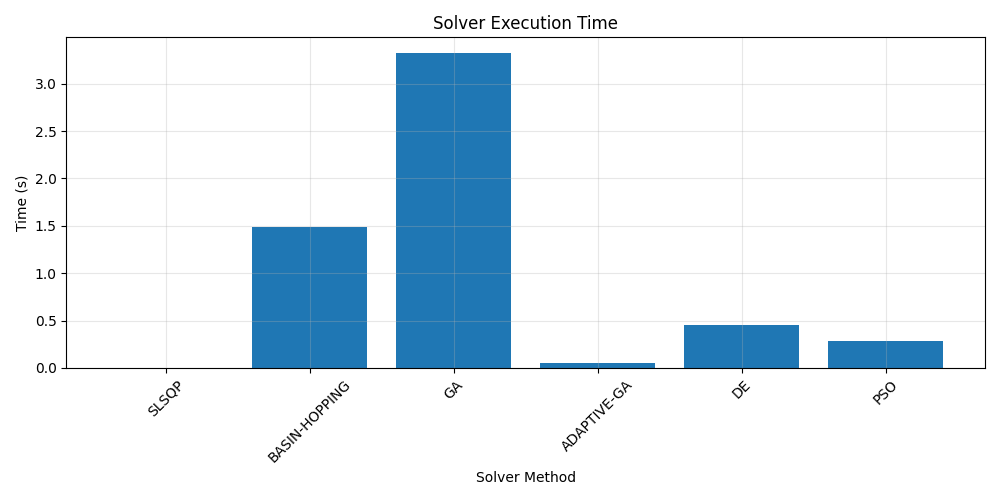
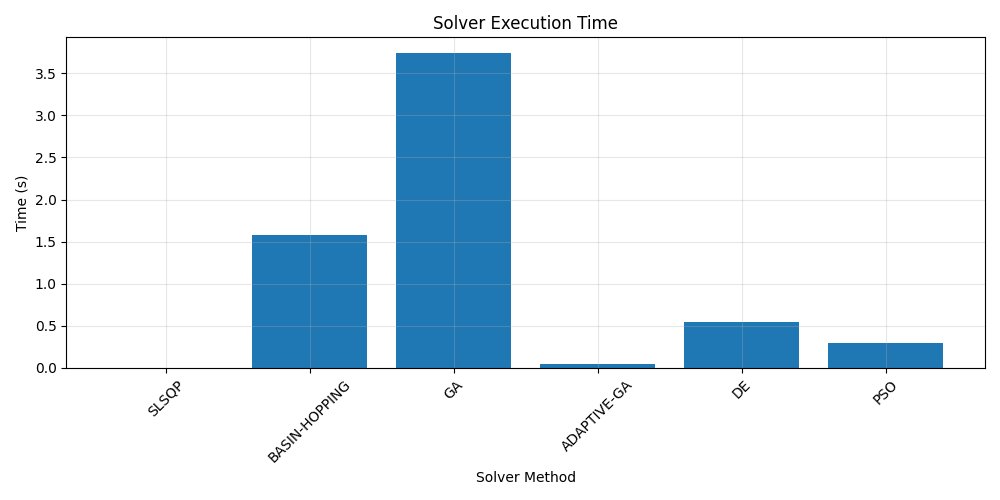
all tests working

diff --git a/Stage_Opt/output/optimization_report.tex b/Stage_Opt/output/optimization_report.tex
@@ -83,11 +83,11 @@ The following optimization methods were evaluated:
 Method & {Payload Fraction} & {Error} & {Time (\si{\second})} \\
 \midrule
 SLSQP        & 0.0315 & 0.0000e+00 & 0.00 \\
-BASIN-HOPPING & 0.0315 & 0.0000e+00 & 1.48 \\
-GA           & 0.0315 & 0.0000e+00 & 3.32 \\
-ADAPTIVE-GA  & 0.0315 & 0.0000e+00 & 0.05 \\
-DE           & 0.0355 & 0.0000e+00 & 0.45 \\
-PSO          & 0.0355 & 0.0000e+00 & 0.28 \\
+BASIN-HOPPING & 0.0315 & 0.0000e+00 & 1.57 \\
+GA           & 0.0325 & 0.0000e+00 & 3.74 \\
+ADAPTIVE-GA  & 0.0315 & 0.0000e+00 & 0.04 \\
+DE           & 0.0355 & 0.0000e+00 & 0.55 \\
+PSO          & 0.0355 & 0.0000e+00 & 0.30 \\
 \bottomrule
 \end{tabular}
 \end{table}
@@ -117,8 +117,8 @@ Stage & {$\Delta V$ (\si{\meter\per\second})} & {Mass Ratio ($\lambda$)} & {Cont
 \toprule
 Stage & {$\Delta V$ (\si{\meter\per\second})} & {Mass Ratio ($\lambda$)} & {Contribution (\%)} \\
 \midrule
-1 & 4649.9 & 0.1460 & 50.0 \\
-2 & 4650.1 & 0.2161 & 50.0 \\
+1 & 4651.4 & 0.1459 & 50.0 \\
+2 & 4648.6 & 0.2162 & 50.0 \\
 \midrule
 \multicolumn{2}{l}{Total $\Delta V$:} & \multicolumn{2}{r}{\SI{9300.0}{\meter\per\second}} \\
 \multicolumn{2}{l}{Payload Fraction:} & \multicolumn{2}{r}{0.0315} \\
@@ -133,11 +133,11 @@ Stage & {$\Delta V$ (\si{\meter\per\second})} & {Mass Ratio ($\lambda$)} & {Cont
 \toprule
 Stage & {$\Delta V$ (\si{\meter\per\second})} & {Mass Ratio ($\lambda$)} & {Contribution (\%)} \\
 \midrule
-1 & 4650.0 & 0.1460 & 50.0 \\
-2 & 4650.0 & 0.2161 & 50.0 \\
+1 & 4401.4 & 0.1641 & 47.3 \\
+2 & 4898.6 & 0.1981 & 52.7 \\
 \midrule
 \multicolumn{2}{l}{Total $\Delta V$:} & \multicolumn{2}{r}{\SI{9300.0}{\meter\per\second}} \\
-\multicolumn{2}{l}{Payload Fraction:} & \multicolumn{2}{r}{0.0315} \\
+\multicolumn{2}{l}{Payload Fraction:} & \multicolumn{2}{r}{0.0325} \\
 \bottomrule
 \end{tabular}
 \end{table}

diff --git a/Stage_Opt/src/reporting/latex.py b/Stage_Opt/src/reporting/latex.py
@@ -41,7 +41,7 @@ def write_results_to_csv(results, stages, output_dir=OUTPUT_DIR):
             detailed_path = os.path.join(output_dir, "stage_results.csv")
             with open(detailed_path, 'w', newline='') as f:
                 writer = csv.writer(f)
-                writer.writerow(['Method', 'Stage', 'Delta-V (m/s)', 'Mass Ratio', 'Contribution (%)'])
+                writer.writerow(['Stage', 'Delta-V (m/s)', 'Mass Ratio', 'Contribution (%)', 'Method'])
                 for method, result in results.items():
                     if not all(k in result for k in ['dv', 'stage_ratios']):
                         logger.warning(f"Skipping incomplete stage data for {method}")
@@ -54,11 +54,11 @@ def write_results_to_csv(results, stages, output_dir=OUTPUT_DIR):
                         ratio = np.exp(-dv / (9.81 * stage['ISP'])) - stage['EPSILON']
                         contribution = (dv / total_dv * 100) if total_dv > 0 else 0
                         writer.writerow([
-                            method,
                             i + 1,
                             f"{dv:.1f}",
                             f"{ratio:.4f}",
-                            f"{contribution:.1f}"
+                            f"{contribution:.1f}",
+                            method
                         ])
             logger.info(f"Stage results written to {detailed_path}")
         except Exception as e:

diff --git a/Stage_Opt/test_payload_optimization.py b/Stage_Opt/test_payload_optimization.py
@@ -259,8 +259,14 @@ class TestCSVOutputs(unittest.TestCase):
         expected_columns = ['Stage', 'Delta-V (m/s)', 'Mass Ratio', 'Contribution (%)', 'Method']
         self.assertListEqual(reader.fieldnames, expected_columns)
         
-        # Verify number of stages
-        self.assertEqual(len(rows), 4)
+        # Count unique methods
+        methods = set(row['Method'] for row in rows)
+        num_methods = len(methods)
+        
+        # Each method should have 2 stages
+        expected_rows = num_methods * 2  # 2 stages per method
+        self.assertEqual(len(rows), expected_rows, 
+                       f"Expected {expected_rows} rows (2 stages × {num_methods} methods)")
 
     def test_lambda_calculations(self):
         """Verify λ calculations against manual computations."""
